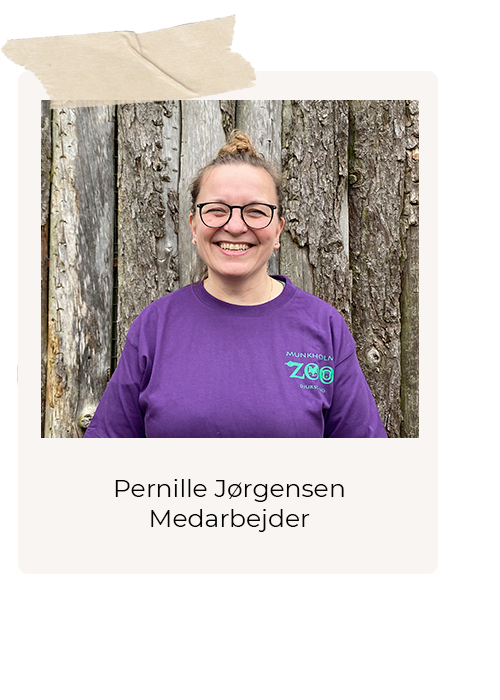
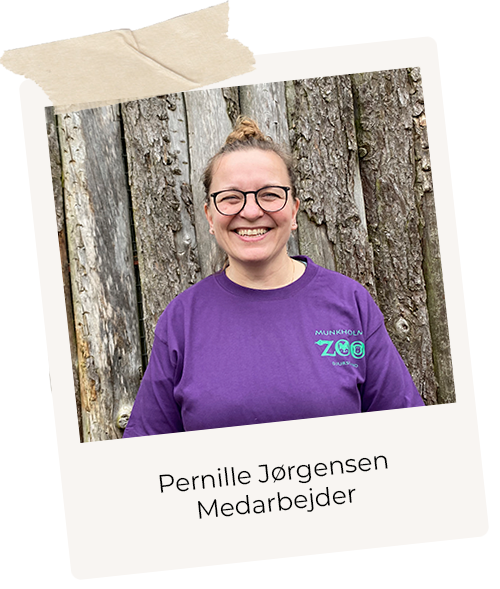
pernille tiltet + video css

diff --git a/eksamen/omos.html b/eksamen/omos.html
@@ -135,7 +135,8 @@ Lars er uddannet lærer, men har altid drømt om at have ”sit eget sted” som
         </div>
 
         <div id="lars-ipad">
-            <img src="images/lars.png" alt="Lars, ejer af Munkholm">
+            
+            <video controls autoplay loop src="video/lars_polaroid.mp4" width="300px" height="200px" ></video>
             
             
             
@@ -143,8 +144,8 @@ Lars er uddannet lærer, men har altid drømt om at have ”sit eget sted” som
         </div>
 
         <div id="milo-ipad">
-            <img src="images/milo.png" alt="Milo, ejer af Munkholm">
             
+            <video controls autoplay loop src="video/milo_polaroid.mp4" width="300px" height="200px"></video>
             
             
             <p>”Jeg har altid drømt om at være dyrepasser, dyr er min passion, jeg elsker at være sammen med dem, og jeg elsker at give andre gode oplevelser med vores dyr” </p>

diff --git a/eksamen/css/omos.css b/eksamen/css/omos.css
@@ -436,14 +436,14 @@ footer #flexkontakt {
         margin-left: 50%;
     }
 
-    #lars-ipad img {
+    #lars-ipad video {
          display:block;
         position: relative;
         max-width: 80%;
         margin-left: 5%;
     }
 
-    #milo-ipad img {
+    #milo-ipad video {
          display:block;
         position: relative;
         max-width: 80%;
